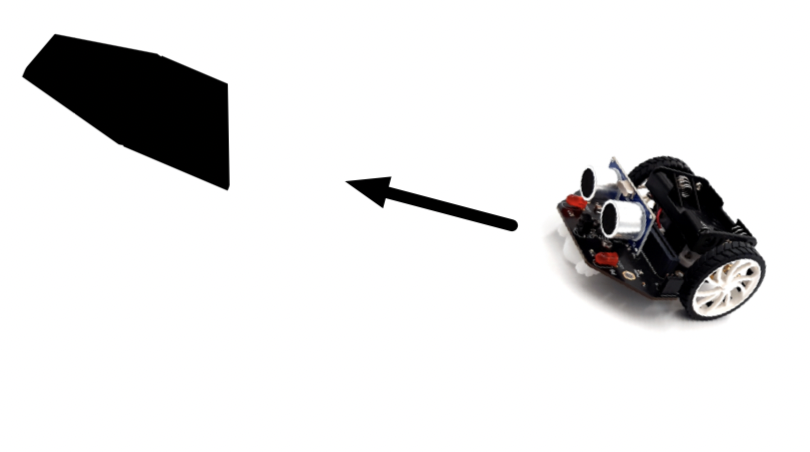
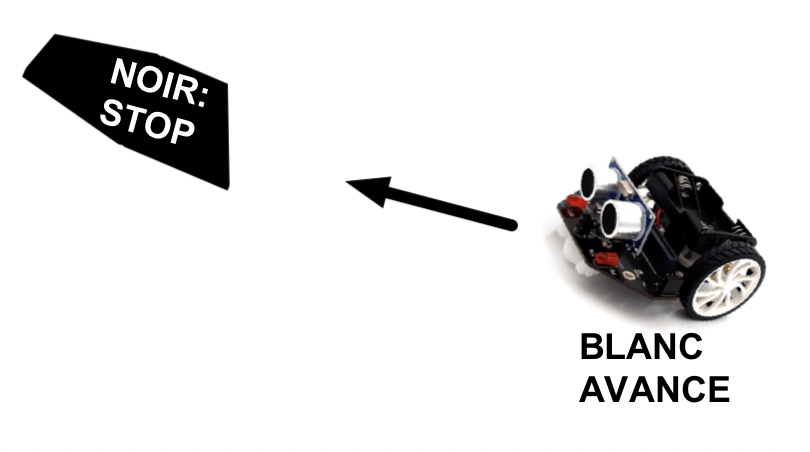
nsi 1ere et snt: robotique

Changed region(s): [[0.1235, 0.1239, 0.2469, 0.3097], [0.7099, 0.7124, 0.8642, 0.8053], [0.7099, 0.8363, 0.8951, 0.8982]]

diff --git a/content/docs/NSI_1/projets/page1.md b/content/docs/NSI_1/projets/page1.md
@@ -5,11 +5,13 @@ Title: Robotique
 
 # Robot marqueen
 ## Prise en main du robot
-Documentation sur le site de l'[ac-normandie.fr](https://nsi-snt.ac-normandie.fr/IMG/pdf/le_robot_maqueen.pdf) 
+
 
 ![logo](../images//marq10.png)
 
 *Programmer un robot a pour but de lui faire réaliser des tâches autonomes, répétitives. Il va prendre des décisions en fonction de son environnement grâce à un algorithme.*
+
+La programmation se fera sur l'editeur [Vittascience.com](https://fr.vittascience.com/microbit/?mode=mixed&console=bottom&toolbox=vittascience)
 
 Selon la tâche à executer, il faudra bien distinguer ce que l'on veut que le robot n'execute qu'une seule fois, ou bien ce qu'il devra répéter indéfiniment
 
@@ -18,12 +20,23 @@ Selon la tâche à executer, il faudra bien distinguer ce que l'on veut que le r
 ## Défi n°1: S'arrêter au parking
 Le robot peut être prévu pour circuler selon une couleur marquée au sol.
 
+{{< img src="../images/marq13.png" >}}
 
 
+Pour ce 1er défi: 
+* Votre programme utilise une structure conditionnelle: retrouvez celle-ci dans le menu **logique**.
 
-Pour ce 1er défi: les différentes fonctions d'**actions des moteurs** sont (en *italique* les *paramètres ajustables*):
+{{< img src="../images/marq14.png" >}}
 
-* **[Marqueen]** Contrôler le robot *avancer* vitesse *125*
+* les différentes fonctions d'**actions des moteurs** sont dans le menu *Robots* de la page de l'editeur [Vittascience.com](https://fr.vittascience.com/microbit/?mode=mixed&console=bottom&toolbox=vittascience)
+
+Le menu propose les instructions de plusieurs robots. Le votre s'appelle **Marqueen**.
+
+{{< img src="../images/selection.GIF" >}}
+
+Les valeurs en *italique* sont des *paramètres ajustables*:
+
+* **[Marqueen]** Contrôler le robot *avancer* vitesse *50*
 
 {{< img src="../images/marq11.png" >}}
 
@@ -32,7 +45,7 @@ Pour ce 1er défi: les différentes fonctions d'**actions des moteurs** sont (en
 {{< img src="../images/marq2.png" >}}
 
 
-
+Le robot dispose de 2 capteurs d'intensité lumineuse, sous le chassis. 
 
 La mesure de l'**état du capteur de ligne**, sous le robot se fait grâce à la fonction:
 
@@ -40,19 +53,24 @@ La mesure de l'**état du capteur de ligne**, sous le robot se fait grâce à la
 
 {{< img src="../images/marq8.png" >}}
 
-Cette instruction renvoie un booléen (`True`, `False`), qui sera affectée à une variable: 
+Cette instruction renvoie un booléen (`True`, `False`), qui sera affectée à une variable. Créez 2 nouvelles variables, **G** et **D**.
+{{< img src="../images/marq15.png" >}}
+
+* Affecter les instructions des capteurs de ligne à chacune de ces variables:
 
 {{< img src="../images/marq7.png" >}}
 
-On place alors ces variables dans une structure conditionnelle:
+On place alors ces variables dans une structure conditionnelle (si G ET D faire...):
 
-{{< img src="../images/marq6.png" caption="Si le capteur D vaut False et le capteur G vaut False: avancer" >}}
+{{< img src="../images/marq6.png" caption="Si le capteur G vaut True et le capteur D vaut True: avancer" >}}
 
-Le robot dispose de 2 capteurs d'intensité lumineuse, sous le chassis. 
+
 
 > à vous de jouer: Créez un programme qui fait avancer le robot tant qu'il est sur une piste **blanche**. Et qui s'arrête lorsqu'il est sur son *parking*, **noir**.
 
-{{< img src="../images/marq13.png" >}}
+Vous avez reussi? Téléchargez le programme dans vos *documents*.
+
+{{< img src="../images/marq16.png" >}}
 
 ## Défi n°2: Suivi de ligne
 Le robot peut circuler en suivant une courbe peinte au sol.
@@ -73,19 +91,19 @@ else
 
 Pour faire pivoter le robot, il faudra contrôler différement chaque moteur (Droit / Gauche). Utiliser: 
 
-* **[Marqueen]** Contrôler le moteur *droit* direction *...* vitesse *125*
+* **[Marqueen]** Contrôler le moteur *gauche* direction *...* vitesse *50*
 
 {{< img src="../images/marq3.png" >}}
 
 
 > à vous de jouer: Créer un deuxième programme qui fera:
-> * avancer le robot tout droit lorsque les 2 capteurs mesurent la couleur noire
-> * s'arrêter lorsqu'il est sur une zone blanche
+
 > * tourner le robot vers la droite lorsqu'il se trouve dans la situation suivante:
 
 {{< img src="../images/marq1.png" caption="blanc/noir => virage a droite" >}}
 
->* Et tourner vers la gauche dans la situation inverse
+>* tourner vers la gauche dans la situation inverse
+>* sinon: avancer tout droit lorsque les 2 capteurs mesurent la même couleur noire, ou blanche.
 
 *Tester alors votre programme sur une piste circulaire.*
 
@@ -215,6 +233,7 @@ Avec quelques extensions, les actions du robot peuvent être complexifiées (det
 * Explorer, enregistrer des données sur la carte microbit: [Lien](https://microbit.org/fr/projects/make-it-code-it/environment-data-logger/)
 * Course, tour de piste [site ac-nantes.fr](https://www.pedagogie.ac-nantes.fr/medias/fichier/challenge-robotmaqueen_1656062635314-pdf?ID_FICHE=1424110252680&INLINE=FALSE)
 * Documentation [site ac-normandie.fr](https://nsi-snt.ac-normandie.fr/IMG/pdf/le_robot_maqueen.pdf)
+* Documentation du robot Marqueen sur le site de l'[ac-normandie.fr](https://nsi-snt.ac-normandie.fr/IMG/pdf/le_robot_maqueen.pdf) 
 
 
 

diff --git a/content/docs/competences/calc/page3.md b/content/docs/competences/calc/page3.md
@@ -13,13 +13,22 @@ L'année 2023 a vu une féminisation des lauréats au prix Nobel. Mais depuis sa
 Narges Mohammadi, Claudia Goldin, Anne L'Huillier, Katalin Karikó. Quatre noms de femmes s'ajoutent cette année à la liste des "Nobélisé•es".
 
 ## Fichier de données
+Selon la version Excel installée:
 
-- **Fichier: Importer** le fichier de données [nobels.csv](../datas/nobels.csv)  avec Excel (*ou bien LibreOffice Calc*). Bien sélectionner: 
-	* séparateur par point virgule
-	* Origine du fichier: unicode utf-8 afin de bien gérer les caractères avec accents.
+###  méthode 1: avec Excel jusqu'à la version 16 (2019), *ou bien LibreOffice Calc*:
+- **Fichier: Importer** le fichier de données [nobels.csv](../datas/nobels.csv). 
 
-- Enregistrer le fichier au format `xls` dans le même répertoire.
+### méthode 2: Excel version plus récente
+* **Données: Obtenir des données**, puis choisir "à partir d'un fichier", "fichier text ou csv", choisir le fichier [nobels.csv](../datas/nobels.csv). 
 
+{{< img src="../images/excel3.png" >}}
+
+Dans les 2 cas (méthode 1 ou 2): Bien sélectionner: 
+
+* séparateur par point virgule
+* Origine du fichier: unicode utf-8 afin de bien gérer les caractères avec accents.
+
+Puis **Enregistrer** le fichier au format **xls** (ou **xlsx**) dans le même répertoire.
 Maintenant que nous sommes sur un fichier en format tableur, nous pouvons utiliser les fonctionnalités avancées de ce type de logiciel.
 
 ## Rechercher et remplacer
